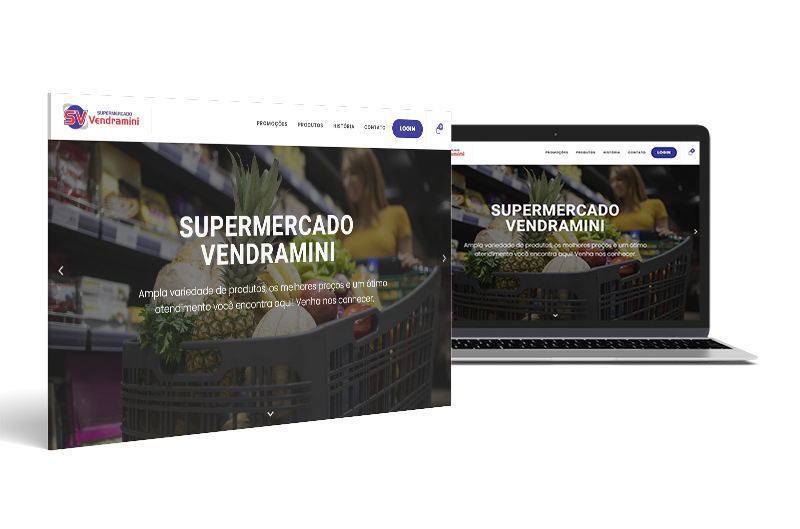
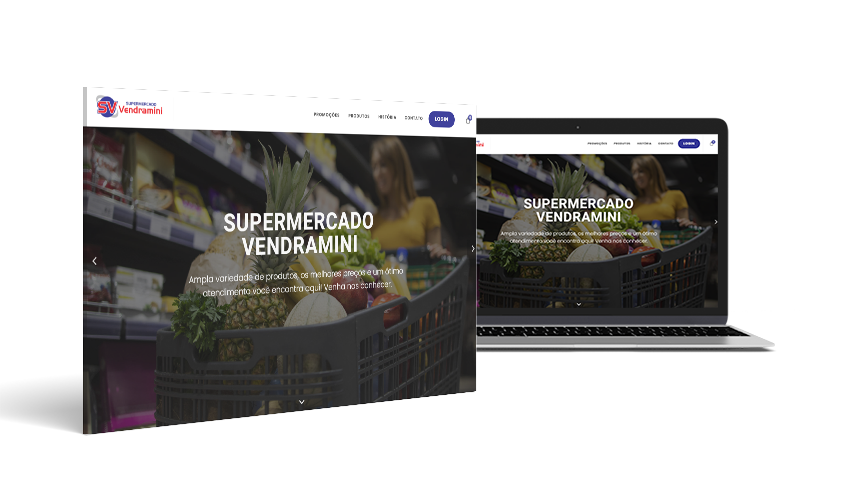
fix(global): adjust images and dark mode

Changed region(s): [[0.0, 0.1761, 0.9375, 0.9099], [0.3125, 0.2055, 0.3438, 0.2348]]

diff --git a/index.html b/index.html
@@ -26,18 +26,19 @@
     <link rel="stylesheet" type="text/css" href="css/navigation.css">
 </head>
 
-<body id="body" class="dark">
+<body id="body" class="">
 
     <!-- start left menu -->
     <header class="side-menu menu-style-2">
         <!-- start sidebar buttons -->
         <div class="bg-smoky-black sidebar-nav-action">
             <div class="sidebar-nav-action-main">
-                <a href="index.html" class="logo"><img alt="" src="images/logo.png" data-at2x="images/logo.png"></a>
+                <span class="logo">
+                    <img src="images/logo_menu.png" alt="Logo Gustavo Morais Portfolio"  title="Logo Gustavo Morais Portfolio"  data-at2x="images/logo_menu.png">
+                </span>
 
                 <div class="side-menu-button d-block d-lg-none">
-                    <a href="javascript:void(0);" class="nav-icon" data-bs-toggle="collapse"
-                        data-bs-target="#navbar-menu">
+                    <a href="javascript:void(0);" class="nav-icon" data-bs-toggle="collapse" data-bs-target="#navbar-menu">
                         <span></span>
                         <span></span>
                         <span></span>
@@ -47,23 +48,23 @@
 
                 <ul class="menu-list alt-font d-none d-lg-block text-start">
                     <li class="menu-list-item">
-                        <a href="javascript:void(0);"><i class="feather icon-feather-star"></i> Experiência</a>
+                        <a href="#experience" class="section-link"><i class="feather icon-feather-star"></i> Experiência</a>
                     </li>
                     <li class="menu-list-item">
-                        <a href="javascript:void(0);"><i class="fas fa-graduation-cap"></i> Formação</a>
+                        <a href="#portfolio" class="section-link"><i class="feather icon-feather-code"></i> Portfolio</a>
                     </li>
                     <li class="menu-list-item">
-                        <a href="javascript:void(0);"><i class="feather icon-feather-code"></i> Portfolio</a>
+                        <a href="#education" class="section-link"><i class="fas fa-graduation-cap"></i> Formação</a>
                     </li>
                     <li class="menu-list-item">
-                        <a href="javascript:void(0);"><i class="far fa-lightbulb"></i> Competências</a>
+                        <a href="#skills" class="section-link"><i class="far fa-lightbulb"></i> Competências</a>
                     </li>
                 </ul>
 
                 <div class="list-unstyled d-none d-lg-block social-icon-style-12">
                     <div class="content-toggle-dark-mode">
-                        <input type="checkbox" id="hide-checkbox">
-                        <label for="hide-checkbox" class="toggle darkmode">
+                        <input type="checkbox" id="dark-checkbox">
+                        <label for="dark-checkbox" class="toggle darkmode">
                             <span class="toggle-button">
                                 <span class="crater crater-1"></span>
                                 <span class="crater crater-2"></span>
@@ -97,9 +98,18 @@
             <div class="hover-background-color bg-extra-dark-gray d-none d-lg-block"></div>
             <div class="col-12 h-100 padding-3-half-rem-lr sm-padding-1-rem-lr">
                 <div class="menu-list-wrapper" data-scroll-options='{ "theme": "light" }'>
-                    <ul class="menu-list alt-font">
+                    <ul class="menu-list">
                         <li class="menu-list-item">
-                            <a href="javascript:void(0);">Home</a>
+                            <a href="#experience" class="section-link"><i class="feather icon-feather-star"></i> Experiência</a>
+                        </li>
+                        <li class="menu-list-item">
+                            <a href="#portfolio" class="section-link"><i class="feather icon-feather-code"></i> Portfolio</a>
+                        </li>
+                        <li class="menu-list-item">
+                            <a href="#education" class="section-link"><i class="fas fa-graduation-cap"></i> Formação</a>
+                        </li>
+                        <li class="menu-list-item">
+                            <a href="#skills" class="section-link"><i class="far fa-lightbulb"></i> Competências</a>
                         </li>
                     </ul>
                 </div>
@@ -149,7 +159,7 @@
                                     data-x="['left','left','center','center']" data-hoffset="['9','9','0','0']"
                                     data-y="['middle','middle','middle','middle']"
                                     data-voffset="['-110','-110','-110','-80']" data-width="none" data-height="none"
-                                    data-whitespace="nowrap" data-fontsize="['25','32','18','15']"
+                                    data-whitespace="nowrap" data-fontsize="['25','32','22','22']"
                                     data-lineheight="['30','30','20','30']" data-letterspacing="['5','5','5','5']"
                                     data-type="text" data-width="100%" data-responsive_offset="on" data-responsive="on"
                                     data-frames='[{"delay":1000,"split":"chars","splitdelay":0.1,"speed":500,"frame":"0","from":"sX:0.8;sY:0.8;opacity:0;","to":"o:1;","ease":"Power4.easeOut"},{"delay":"wait","split":"chars","splitdelay":0.03,"speed":500,"frame":"999","to":"sX:0.9;sY:0.9;opacity:0;","ease":"Power3.easeIn"}]'
@@ -222,14 +232,12 @@
                     </div>
                 </div>
                 <div class="down-section text-center">
-                    <a href="#experience" class="section-link up-down-ani"><i
-                            class="ti-mouse icon-small bounce text-light"></i></a>
+                    <a href="#experience" class="section-link up-down-ani"><i class="ti-mouse icon-small bounce text-light"></i></a>
                 </div>
 
             </article>
         </section>
         <!-- end revolution slider section -->
-        <!-- start section -->
 
         <!-- Experience start -->
         <section class="big-section bg-cod-gray" id="experience">
@@ -448,7 +456,7 @@
         <!-- Experience end -->
 
         <!-- Portfolio start -->
-        <section class="big-section bg-cod-gray border-top border-color-light-white-transparent">
+        <section class="big-section bg-cod-gray border-top border-color-light-white-transparent" id="portfolio">
             <div class="container-fluid">
                 <div class="title-section margin-5-rem-bottom">
                     <h2>Portfolio</h2>
@@ -465,14 +473,54 @@
                                         <img src="images/portfolio/supermercado_vendramini.png" alt="Mockup Supermercado Vendramini" />
                                         <div class="portfolio-hover align-items-center justify-content-center d-flex h-100">
                                             <div class="portfolio-icon">
-                                                <a href="https://www.supvendramini.com.br/" target="_blank" class="text-white text-white-hover rounded-circle bg-green"><i class="feather icon-feather-link icon-very-small" aria-hidden="true"></i></a>
+                                                <a href="https://supvendramini.com.br/" target="_blank" class="text-white text-white-hover rounded-circle bg-green"><i class="feather icon-feather-link icon-very-small" aria-hidden="true"></i></a>
                                             </div>
                                         </div>
                                     </div>
                                     <div class="portfolio-caption bg-smoky-black padding-30px-all">
-                                        <a href="https://www.supvendramini.com.br/" target="_blank">
+                                        <a href="https://supvendramini.com.br/" target="_blank">
                                             <h5 class="text-gradient-green text-extra-large font-weight-600 d-block margin-10px-bottom alt-font">
                                                 Supermercado Vendramini
+                                            </h5>
+                                        </a>
+                                    </div>
+                                </div>
+                            </li>
+
+                            <li class="grid-item photography wow animate__fadeIn">
+                                <div class="portfolio-box border-radius-6px box-shadow-large">
+                                    <div class="portfolio-image bg-smoky-black">
+                                        <img src="images/portfolio/atlanta_monitoramento.png" alt="Mockup Atlanta Monitoramento" />
+                                        <div class="portfolio-hover align-items-center justify-content-center d-flex h-100">
+                                            <div class="portfolio-icon">
+                                                <a href="https://www.monitoramentoatlantacampomourao.com/" target="_blank" class="text-white text-white-hover rounded-circle bg-green"><i class="feather icon-feather-link icon-very-small" aria-hidden="true"></i></a>
+                                            </div>
+                                        </div>
+                                    </div>
+                                    <div class="portfolio-caption bg-smoky-black padding-30px-all">
+                                        <a href="https://www.monitoramentoatlantacampomourao.com/" target="_blank">
+                                            <h5 class="text-gradient-green text-extra-large font-weight-600 d-block margin-10px-bottom alt-font">
+                                                Atlanta Monitoramento
+                                            </h5>
+                                        </a>
+                                    </div>
+                                </div>
+                            </li>
+
+                            <li class="grid-item photography wow animate__fadeIn">
+                                <div class="portfolio-box border-radius-6px box-shadow-large">
+                                    <div class="portfolio-image bg-smoky-black">
+                                        <img src="images/portfolio/mercado_lobato.png" alt="Mockup Mercado Lobato" />
+                                        <div class="portfolio-hover align-items-center justify-content-center d-flex h-100">
+                                            <div class="portfolio-icon">
+                                                <a href="https://mercadolobato.com/" target="_blank" class="text-white text-white-hover rounded-circle bg-green"><i class="feather icon-feather-link icon-very-small" aria-hidden="true"></i></a>
+                                            </div>
+                                        </div>
+                                    </div>
+                                    <div class="portfolio-caption bg-smoky-black padding-30px-all">
+                                        <a href="https://mercadolobato.com/" target="_blank">
+                                            <h5 class="text-gradient-green text-extra-large font-weight-600 d-block margin-10px-bottom alt-font">
+                                                Mercado Lobato
                                             </h5>
                                         </a>
                                     </div>
@@ -488,7 +536,7 @@
         <!-- Portfolio end -->
 
         <!-- Education start -->
-        <section class="big-section bg-cod-gray border-top border-color-light-white-transparent">
+        <section class="big-section bg-cod-gray border-top border-color-light-white-transparent" id="education">
             <div class="container">
                 <div class="title-section margin-5-rem-bottom">
                     <h2>Formação</h2>
@@ -576,8 +624,8 @@
         </section>
         <!-- Education end -->
 
-        <!-- Education start -->
-        <section class="big-section bg-cod-gray border-top border-color-light-white-transparent">
+        <!-- Skills start -->
+        <section class="big-section bg-cod-gray border-top border-color-light-white-transparent" id="skills">
             <div class="container">
                 <div class="title-section margin-5-rem-bottom">
                     <h2>Competências</h2>
@@ -619,14 +667,14 @@
             </div>
             
         </section>
-        <!-- Education end -->
+        <!-- Skills end -->
 
         <!-- Footer start -->
         <footer class="footer-dark padding-50px-tb bg-cod-gray border-top border-color-light-white-transparent wow animate__fadeIn">
             <div class="container">
                 <div class="row align-items-center">
-                    <div class="col-12 text-center  margin-40px-bottom">
-                        <a href="index.html" class="footer-logo"><img src="images/logo.png" data-at2x="images/logo.png" alt=""></a>
+                    <div class="col-12 text-center margin-40px-bottom">
+                        <span class="footer-logo"><img src="images/logo_footer.png" data-at2x="images/logo_footer.png" alt="Logo Gustavo Morais Portfolio" title="Logo Gustavo Morais Portfolio"></a></span>
                     </div>
                     <div class="col-12 text-center ">
                         <div class="elements-social social-icon-style-05">

diff --git a/css/dark-mode.css b/css/dark-mode.css
@@ -1,4 +1,4 @@
-  #hide-checkbox {
+  #dark-checkbox {
     opacity: 0;
     height: 0;
     width: 0;
@@ -181,27 +181,27 @@
     }
   }
   
-  #hide-checkbox:checked + .toggle {
+  #dark-checkbox:checked + .toggle {
     background: #24d7f7;
   }
   
-  #hide-checkbox:checked + .toggle .toggle-button {
+  #dark-checkbox:checked + .toggle .toggle-button {
     background: #f7ffff;
     transform: translateX(51px);
     box-shadow: 0 0 35px 5px rgba(255, 255, 255);
   }
   
-  #hide-checkbox:checked + .toggle .toggle-button .crater {
+  #dark-checkbox:checked + .toggle .toggle-button .crater {
     transform: rotate(-45deg) translateX(70px);
   }
   
-  #hide-checkbox:checked + .toggle .star {
+  #dark-checkbox:checked + .toggle .star {
     animation: shake 20s infinite;
     transform: none;
     box-shadow: none;
   }
   
-  #hide-checkbox:checked + .toggle .star-1 {
+  #dark-checkbox:checked + .toggle .star-1 {
     width: 20px;
     height: 5px;
     border-radius: 10px;
@@ -211,7 +211,7 @@
     box-shadow: none;
   }
   
-  #hide-checkbox:checked + .toggle .star-2 {
+  #dark-checkbox:checked + .toggle .star-2 {
     width: 6px;
     height: 6px;
     background: #fff;
@@ -220,7 +220,7 @@
     box-shadow: -1px 0 2px 0 rgba(0, 0, 0, 0.1);
   }
   
-  #hide-checkbox:checked + .toggle .star-3 {
+  #dark-checkbox:checked + .toggle .star-3 {
     width: 8px;
     height: 8px;
     background: #fff;
@@ -229,7 +229,7 @@
     box-shadow: -1px 0 2px 0 rgba(0, 0, 0, 0.1);
   }
   
-  #hide-checkbox:checked + .toggle .star-4 {
+  #dark-checkbox:checked + .toggle .star-4 {
     width: 7px;
     height: 7px;
     background: #fff;
@@ -238,7 +238,7 @@
     box-shadow: -1px 0 2px 0 rgba(0, 0, 0, 0.1);
   }
   
-  #hide-checkbox:checked + .toggle .star-5 {
+  #dark-checkbox:checked + .toggle .star-5 {
     width: 30px;
     height: 7.5px;
     border-radius: 15px;
@@ -248,7 +248,7 @@
     box-shadow: none;
   }
   
-  #hide-checkbox:checked + .toggle .star-6 {
+  #dark-checkbox:checked + .toggle .star-6 {
     width: 9px;
     height: 9px;
     background: #fff;
@@ -258,7 +258,7 @@
     box-shadow: -1px 0 2px 0 rgba(0, 0, 0, 0.1);
   }
   
-  #hide-checkbox:checked + .toggle .star-7 {
+  #dark-checkbox:checked + .toggle .star-7 {
     width: 12px;
     height: 12px;
     background: #fff;
@@ -268,7 +268,7 @@
     box-shadow: -1px 0 2px 0 rgba(0, 0, 0, 0.1);
   }
   
-  #hide-checkbox:checked + .toggle .star-8 {
+  #dark-checkbox:checked + .toggle .star-8 {
     width: 10.5px;
     height: 10.5px;
     background: #fff;
@@ -327,7 +327,7 @@
 
 /* ######## CSS DARK ####### */
 .light .bg-cod-gray{
-    background-color: rgb(43, 255, 0) !important;
+    background-color: #faf6f3 !important;
 }
 .light .bg-black{
   background-color: #e67e22 !important;

diff --git a/css/style.css b/css/style.css
@@ -2834,7 +2834,7 @@ header.sticky .navbar.header-dark .navbar-toggler-line { background: #fff; }
 .sticky .navbar.navbar-dark.header-light .navbar-nav > .nav-item.dropdown.simple-dropdown:hover > a { color: rgba(0,0,0,0.6) !important; }
 
 /* header logo */
-header .navbar .navbar-brand img, header.side-menu .logo img, header .sidebar-nav-menu .navbar-brand img { max-height: 60px; }
+header .navbar .navbar-brand img, header.side-menu .logo img, header .sidebar-nav-menu .navbar-brand img { max-height: 75px; }
 header .navbar .navbar-brand .default-logo, header.sticky .navbar-brand .alt-logo, header .sidebar-nav-menu .navbar-brand .default-logo { visibility: visible; opacity: 1; width: auto; transition-duration:0.5s; -webkit-transition-duration: 0.5s; -moz-transition-duration: 0.5s; -ms-transition-duration: 0.5s; -o-transition-duration: 0.5s; }
 header.sticky .navbar .navbar-brand .default-logo, header .navbar-brand .alt-logo, header .navbar .navbar-brand .mobile-logo, header .sidebar-nav-menu .navbar-brand .mobile-logo  { visibility: hidden; opacity: 0; width: 0; transition-duration:0.5s; -webkit-transition-duration: 0.5s; -moz-transition-duration: 0.5s; -ms-transition-duration: 0.5s; -o-transition-duration: 0.5s; }
 
@@ -2912,8 +2912,8 @@ header .header-cart-icon .cart-count { position: absolute; top: -6px; right: -10
 .menu-list-wrapper .mCustomScrollBox .mCSB_container.mCS_y_hidden.mCS_no_scrollbar_y { -ms-flex-item-align: center; align-self: center; }
 .menu-list-wrapper .mCustomScrollBox .mCSB_container { width: 100%; -ms-flex-item-align: start; align-self: flex-start; }
 .menu-list li { clear: both; position: relative; list-style: none; }
-.menu-list li a { font-size: 20px; line-height: 28px; position: relative; color: #fff; padding: 14px; display: inline-block;  }
-.menu-list li a i {margin-right: 10px; vertical-align: middle}
+.menu-list li a { font-size: 18px; line-height: 28px; position: relative; color: #fff; padding: 14px; display: inline-block;  }
+.menu-list li a i {margin-right: 10px; vertical-align: middle; color: #2FFF1Cff;}
 .menu-list .menu-list-item .sub-menu-item li a { font-size: 13px; line-height: normal; color: #fff; padding: 0; }
 .menu-list .menu-list-item .sub-menu-item { position: relative; width: 100%; background-color: transparent; }
 .menu-list .menu-list-item .sub-menu-item .sub-menu-item { padding-left: 15px; }
@@ -4537,7 +4537,7 @@ aside .instafeed-grid.gutter-double-extra-large { margin-left: -20px; margin-rig
     26. Footer
 ====================================== */
 
-footer .footer-logo img { max-height: 130px; }
+footer .footer-logo img { max-height: 200px; }
 footer ul {padding-left: 0; list-style: none;}
 footer ul li { margin-bottom: 7px; }
 footer ul li:last-child { margin-bottom: 0; }

diff --git a/js/dark-mode.js b/js/dark-mode.js
@@ -1,11 +1,16 @@
 !localStorage.getItem("theme") ? localStorage.setItem("theme", "dark") : '';
+const checkbox = document.getElementById("dark-checkbox");
+
+if(localStorage.getItem("theme") == "dark"){
+    document.getElementById("body").className = 'dark'
+    checkbox.checked = false
+}else{
+    document.getElementById("body").className = 'light'
+    checkbox.checked = true
+}
+
 $(document).on("click", ".darkmode", function(){
     var theme = localStorage.getItem("theme");
     theme == "dark" ? localStorage.setItem("theme", "light") : localStorage.setItem("theme", "dark");  
-
-    var body = document.getElementById("body");
-    //var currentClass = body.className;
-   
-    body.className = theme == "dark" ? 'light' : "dark";    
-   
+    document.getElementById("body").className = theme == "dark" ? 'light' : "dark";    
 });
